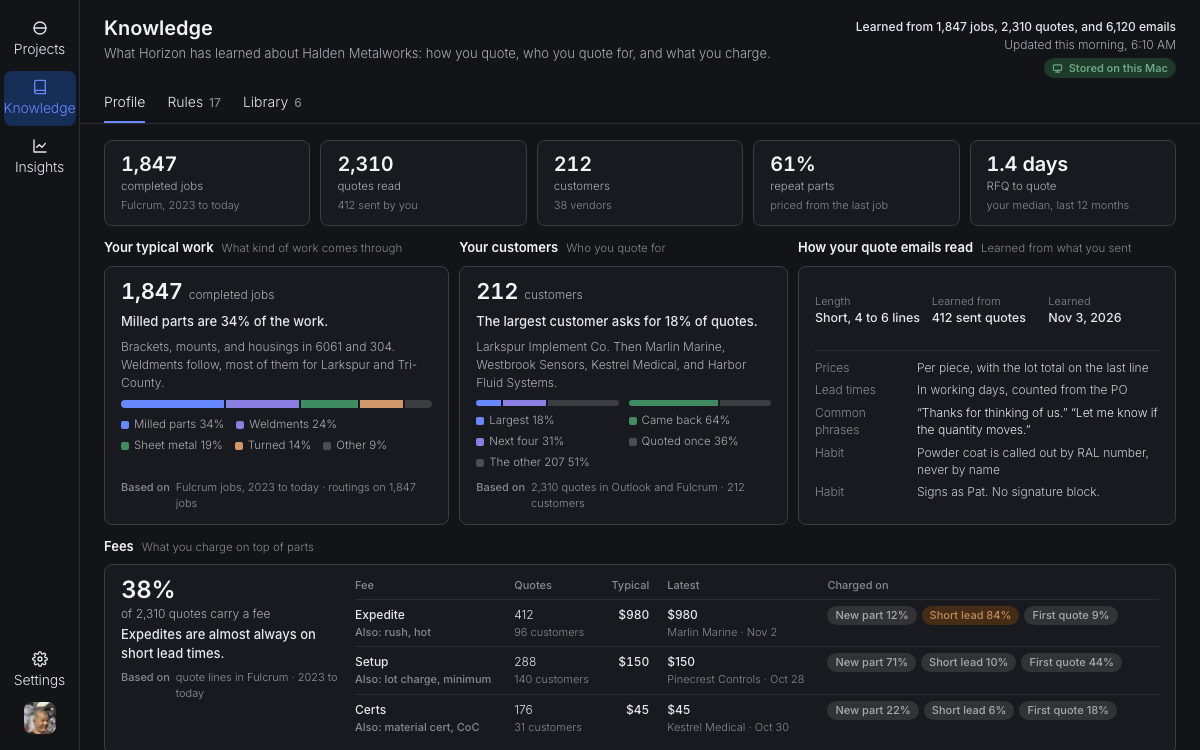
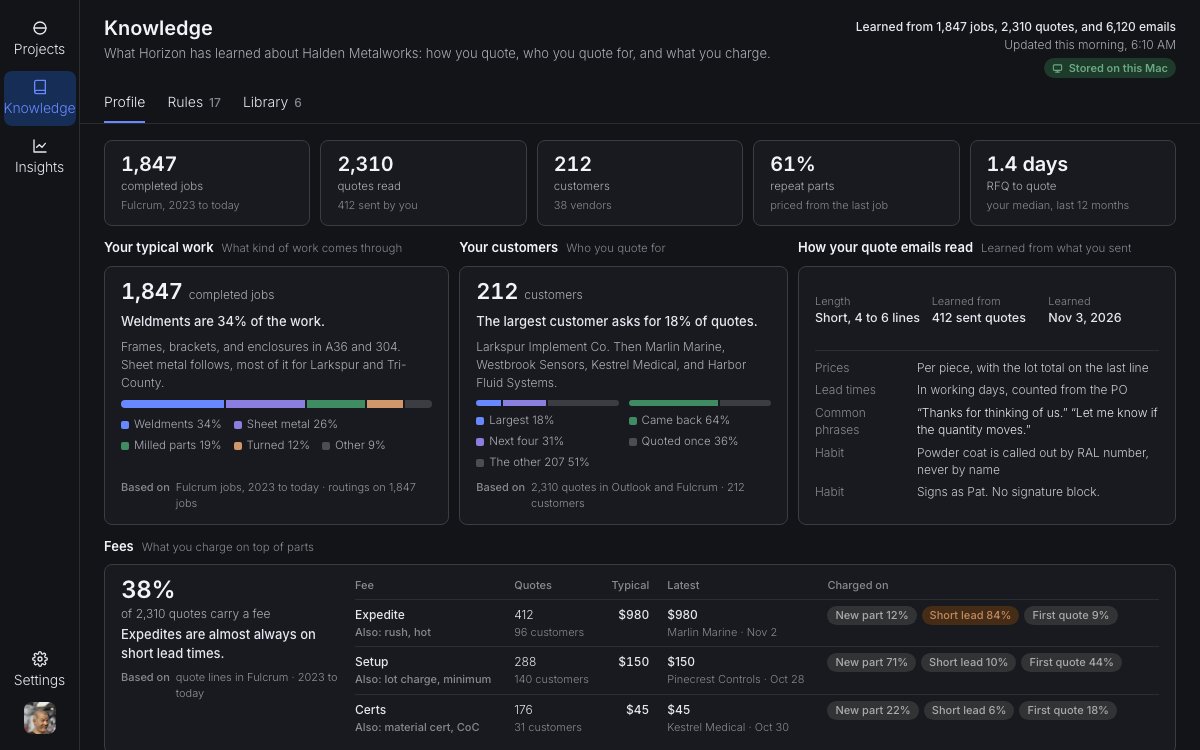
horizon shop-knowledge: sample shop leads with weldments and sheet metal, milled parts third (Alex Nov 17: the engine is strong on fab, weak on CNC); posters re-rendered

Changed region(s): [[0.0925, 0.3987, 0.3392, 0.4907], [0.1233, 0.552, 0.3083, 0.6133]]

diff --git a/horizon/shop-knowledge/index.html b/horizon/shop-knowledge/index.html
@@ -198,10 +198,10 @@ body { display: flex; justify-content: center; }
               <div class="sk-gh"><h2>Your typical work</h2><span>What kind of work comes through</span></div>
               <div class="sk-card">
                 <div class="sk-stat"><b>1,847</b><span>completed jobs</span></div>
-                <h3>Milled parts are 34% of the work.</h3>
-                <p class="sk-detail">Brackets, mounts, and housings in 6061 and 304. Weldments follow, most of them for Larkspur and Tri-County.</p>
-                <div class="sk-bar"><i data-slot="0" style="width:34%"></i><i data-slot="1" style="width:24%"></i><i data-slot="2" style="width:19%"></i><i data-slot="3" style="width:14%"></i><i data-slot="other" style="width:9%"></i></div>
-                <ul class="sk-legend"><li data-slot="0"><i></i>Milled parts 34%</li><li data-slot="1"><i></i>Weldments 24%</li><li data-slot="2"><i></i>Sheet metal 19%</li><li data-slot="3"><i></i>Turned 14%</li><li data-slot="other"><i></i>Other 9%</li></ul>
+                <h3>Weldments are 34% of the work.</h3>
+                <p class="sk-detail">Frames, brackets, and enclosures in A36 and 304. Sheet metal follows, most of it for Larkspur and Tri-County.</p>
+                <div class="sk-bar"><i data-slot="0" style="width:34%"></i><i data-slot="1" style="width:26%"></i><i data-slot="2" style="width:19%"></i><i data-slot="3" style="width:12%"></i><i data-slot="other" style="width:9%"></i></div>
+                <ul class="sk-legend"><li data-slot="0"><i></i>Weldments 34%</li><li data-slot="1"><i></i>Sheet metal 26%</li><li data-slot="2"><i></i>Milled parts 19%</li><li data-slot="3"><i></i>Turned 12%</li><li data-slot="other"><i></i>Other 9%</li></ul>
                 <div class="sk-cites"><b>Based on</b><span>Fulcrum jobs, 2023 to today · routings on 1,847 jobs</span></div>
               </div>
             </section>
